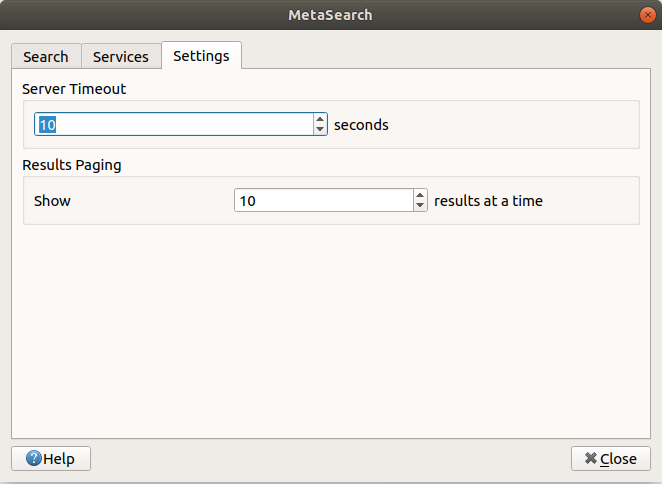
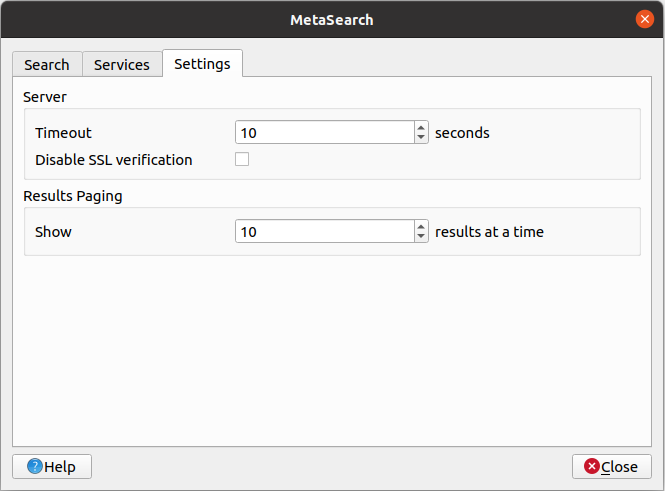
Updated MetaSearch Settings chapter Fix #5691

Changed region(s): [[0.0, 0.0, 1.0, 1.0], [0.3323, 0.4029, 0.8157, 0.4959], [0.9366, 0.4339, 0.9668, 0.4649]]

diff --git a/docs/user_manual/plugins/core_plugins/plugins_metasearch.rst b/docs/user_manual/plugins/core_plugins/plugins_metasearch.rst
@@ -193,6 +193,8 @@ You can fine tune MetaSearch with the following :guilabel:`Settings`:
 * :guilabel:`Server Timeout`: when searching metadata catalogs, the
   number of seconds for blocking connection attempt.
   Default value is 10.
+* :guilable:`Disable SSL verification`: option to switch off ssl 
+  verification.
 * :guilabel:`Results paging`: when searching metadata catalogs, the
   number of results to show per page. Default value is 10.
 
